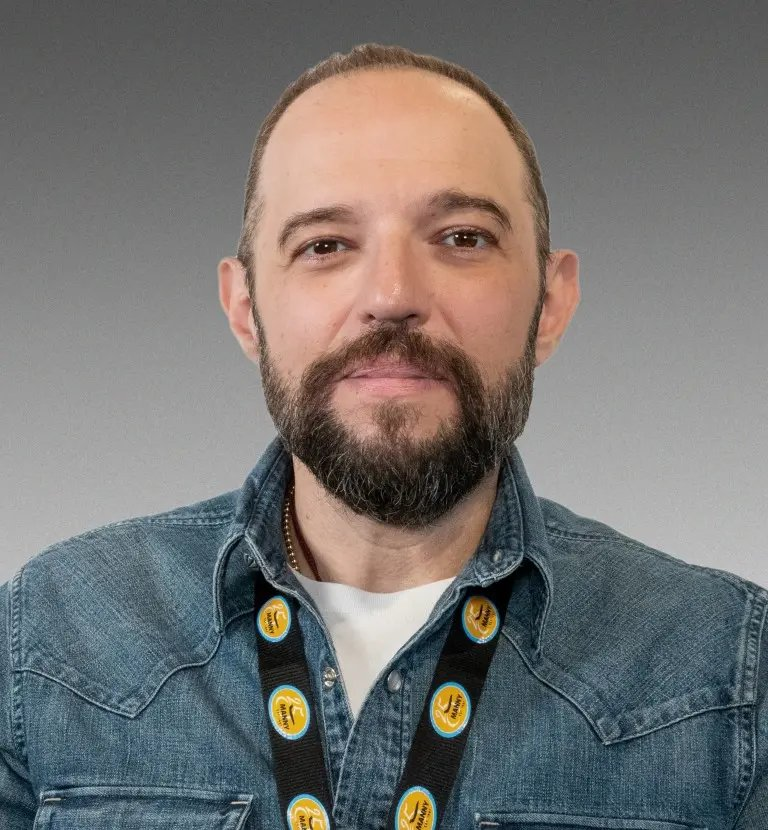
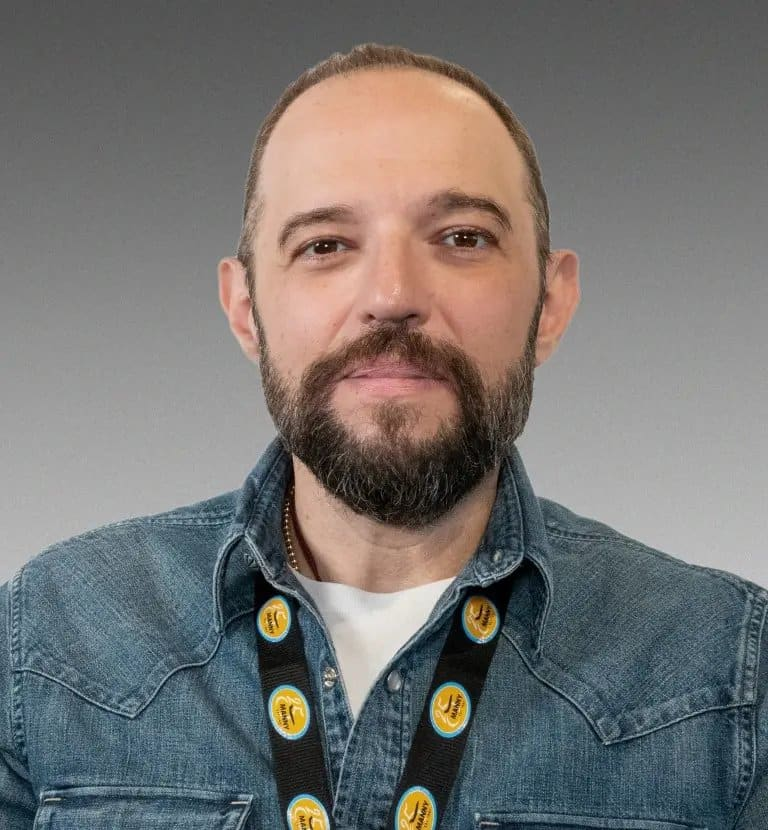
perf: optimize OG images (founder 9.4MB->187KB, catering 6.8MB->148KB, isbah 5.1MB->161KB)
All public/og/*.jpg resized to max 1200px wide and re-encoded as
progressive mozjpeg q78. Hero video stays as-is per client decision.

diff --git a/TODO.md b/TODO.md
@@ -7,8 +7,8 @@
 2. **`getClientIp`** (`src/lib/server/rateLimit.ts`) — confirmar qué header de IP real setea el edge de Hostinger (hcdn) para que el rate limit no sea spoofeable.
 
 ## Performance
-3. **Comprimir hero video** — `src/assets/hero-manny-final.mp4` pesa ~4 MB. Comprimir a <1.5 MB mejora LCP notablemente.
-4. **Optimizar OG images** — `public/og/founder.jpg` (9.6 MB), `public/og/catering.jpg` (6.9 MB), `public/og/isbah.jpg` (5.2 MB). Bajarlas a <300 KB c/u (1200×630).
+3. ~~Comprimir hero video~~ — **decisión del cliente (2026-07-09): el video se queda como está** (~4 MB). No tocar sin nueva indicación.
+4. ~~Optimizar OG images~~ — **hecho 2026-07-09**: todas las `public/og/*.jpg` optimizadas a ≤1200px / <200 KB con sharp.
 5. **`export const prerender = true`** en las páginas 100% estáticas que no leen de la DB (about, catering, isbah, founder, ground-handling, contact, 404).
 
 ## Contenido / SEO
